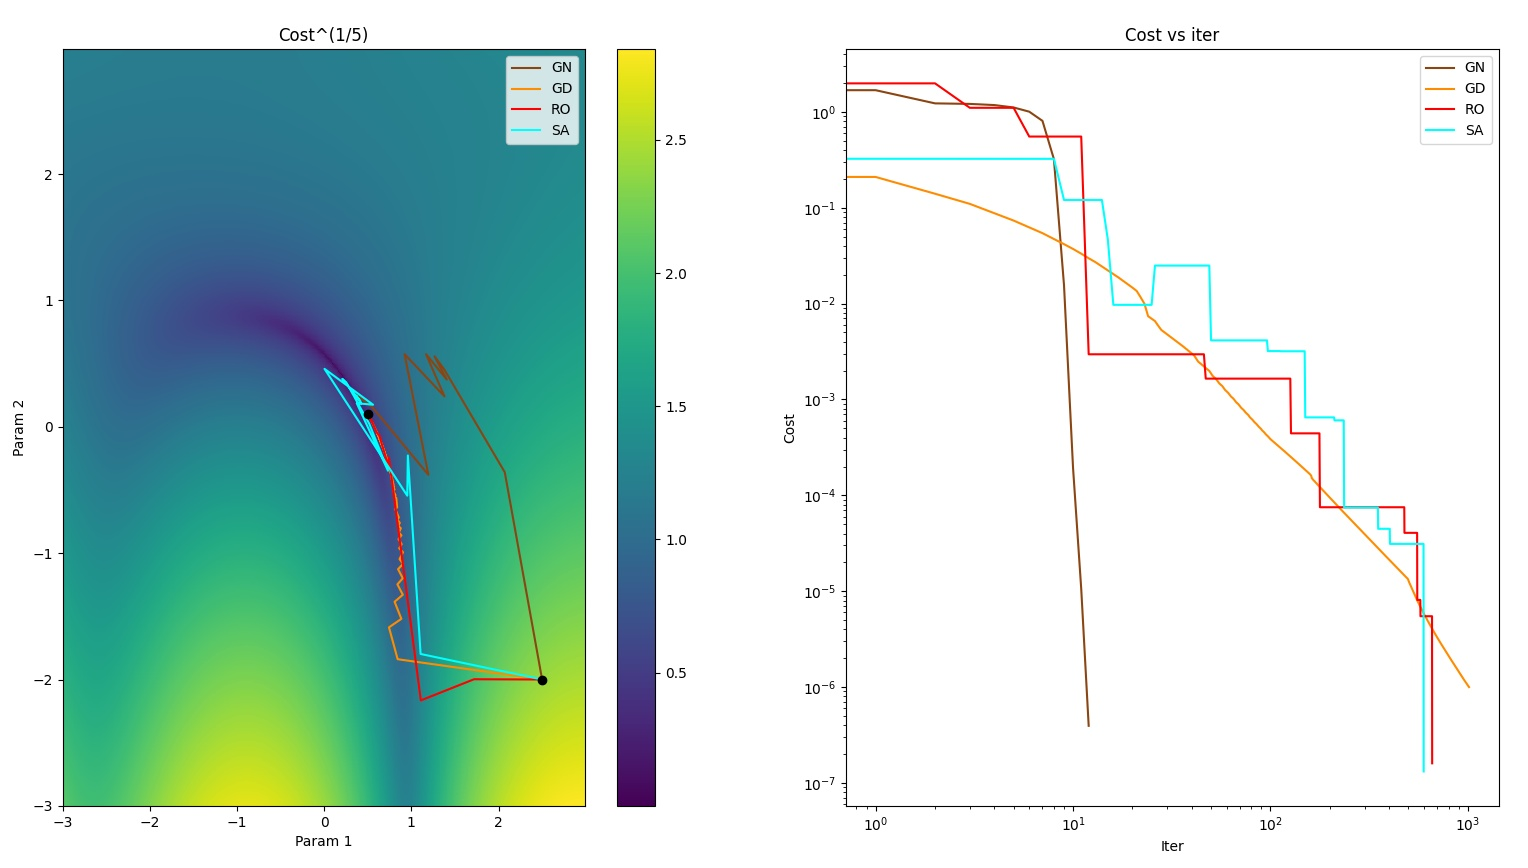
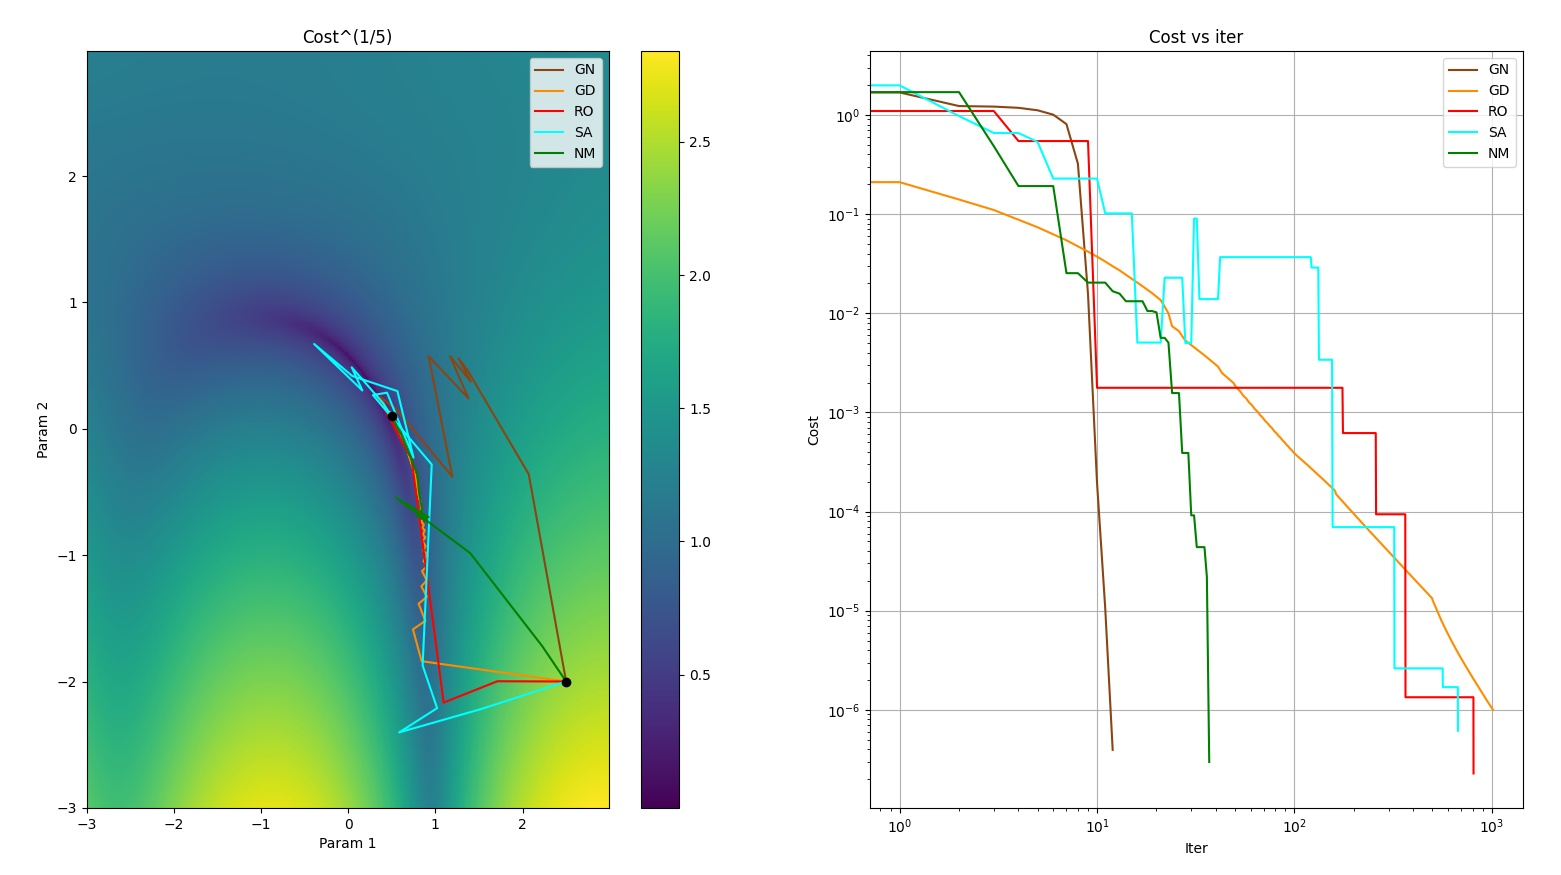
Add Nelder-Mead to sample_cost_surface_visualization and update example visualization

diff --git a/samples/sample_cost_surface_visualization.py b/samples/sample_cost_surface_visualization.py
@@ -6,6 +6,7 @@ from matplotlib import pyplot as plt
 
 from src.gauss_newton import GaussNewton
 from src.gradient_descent import GradientDescent
+from src.nelder_mead import NelderMead, generate_init_test_points
 from src.random_optimization import RandomOptimization
 from src.simulated_annealing import SimulatedAnnealing
 from src.utils import mse
@@ -55,18 +56,20 @@ def main():
     plt.pcolormesh(xx, yy, zz ** 0.2)
     plt.colorbar()
 
+    init_guess = np.array([2.5, -2])
+
     f_step = lambda _: (0, 2.0)
     f_scaling = lambda k: 0.995 ** k * np.ones(2)
     f_update = lambda p, k: p + 0.995 ** k * np.random.randn(2)
     f_temp = lambda k: 0.2 * np.exp(-0.05 * k)
+    init_points_nm = generate_init_test_points(init_guess, 0.1)
     optimizers = {
         "GN": (GaussNewton(f_err=partial(f_err, x=x, y=y)), "saddlebrown"),
         "GD": (GradientDescent(f_cost=partial(f_cost, x=x, y=y), f_step=f_step), "darkorange"),
         "RO": (RandomOptimization(f_cost=partial(f_cost, x=x, y=y), f_scaling=f_scaling), "red"),
-        "SA": (SimulatedAnnealing(f_cost=partial(f_cost, x=x, y=y), f_update=f_update, f_temp=f_temp), "cyan")
+        "SA": (SimulatedAnnealing(f_cost=partial(f_cost, x=x, y=y), f_update=f_update, f_temp=f_temp), "cyan"),
+        "NM": (NelderMead(f_cost=partial(f_cost, x=x, y=y), init_test_points=init_points_nm), "green")
     }
-
-    init_guess = np.array([2.5, -2])
 
     for name, (optimizer, color) in optimizers.items():
         print(f"Running {name}")
